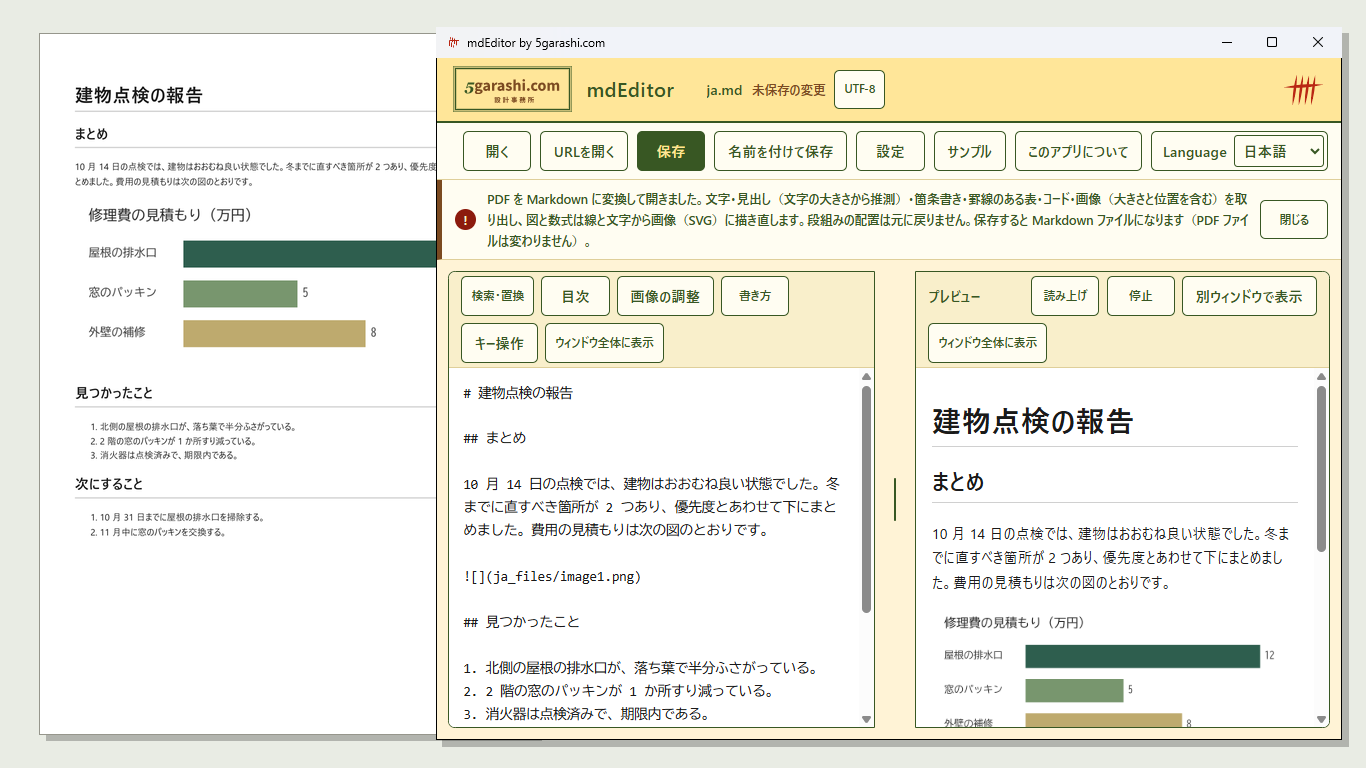
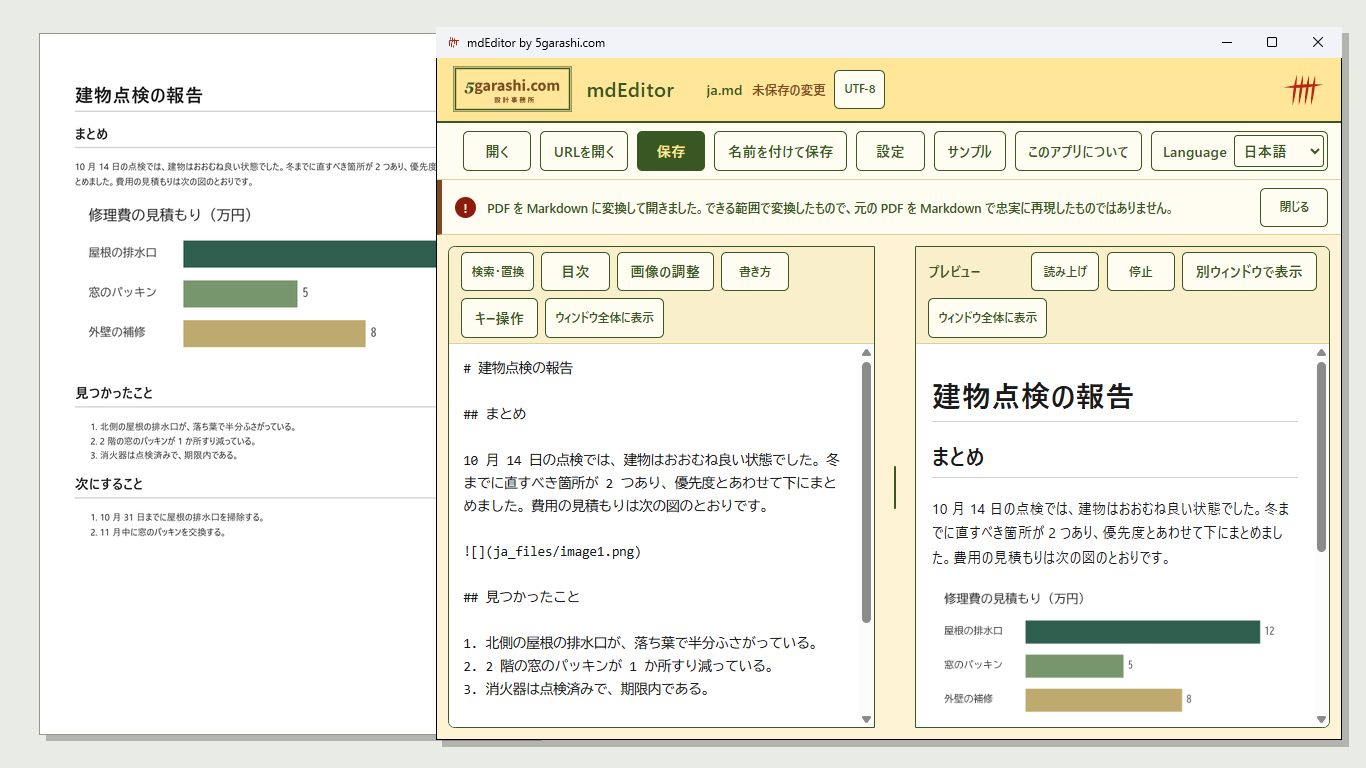
Store listing: 1.0.18 what's new, and screenshot 10-pdf-open retaken (1.0.18)
- What's new (en, ja, zh-CN): tagged PDFs read by their tags, unreadable pages as a
  picture, and saved PDFs tagged for screen readers (English 1,486 of 1,500 characters)
- Screenshot 10-pdf-open retaken with the 1.0.18 build for the shorter notice text, and
  its captions now say the notice calls the conversion best-effort

Tests: none (listing text and images only).

Changed region(s): [[0.3075, 0.25, 0.9839, 0.9688]]

diff --git a/store/STORE-LISTING.md b/store/STORE-LISTING.md
@@ -61,7 +61,8 @@ Made for everyone
 Available in Japanese, English, and Simplified Chinese. Made by 5garashi.com Design Office. Open About in the app for the company, support, and privacy policy links.
 
 **What's new in this version:**
-- Open PDFs as Markdown, on your PC: text, headings, lists, the table of contents, ruled tables, code, and pictures come back, and diagrams and math are redrawn as pictures. Column layout does not come back.
+- Open PDFs as Markdown, on your PC: text, headings, lists, the table of contents, ruled tables, code, and pictures come back, and diagrams and math are redrawn as pictures. Tagged PDFs are read by their tags, and a page whose text cannot be read comes back as a picture. Column layout does not come back.
+- Saved PDFs are tagged, so screen readers can follow their headings, lists, and tables.
 - Word documents without heading styles get their headings from text size.
 - Read aloud reads only the text you select.
 - Simplified Chinese: choose Japanese, English, or Chinese from the Language list.
@@ -103,7 +104,7 @@ Available in Japanese, English, and Simplified Chinese. Made by 5garashi.com Des
 **Support contact:** https://github.com/5garashi/mdEditor/issues
 
 **Screenshots (1366 x 768, the Store minimum; English UI) with captions:**
-1. `docs/images/10-pdf-open.en.png` — Open a PDF and it becomes Markdown on your PC: text, headings, lists, tables, and pictures come back. The notice says what does not (column layout).
+1. `docs/images/10-pdf-open.en.png` — Open a PDF and it becomes Markdown on your PC: text, headings, lists, tables, and pictures come back. The notice says the conversion is best-effort.
 2. `docs/images/9-pdf.en.png` — One click saves a PDF that looks exactly like the preview: diagrams, tables, math, and colored code included, on A4 or Letter.
 3. `docs/images/1-main.en.png` — Type Markdown on the left and the preview on the right updates at once. A 3D model written in STL turns when you drag it.
 4. `docs/images/2-dark.en.png` — Day and night palettes follow Windows, or choose one with the Theme button in Settings. Printing and PDF always use a white page.
@@ -176,7 +177,8 @@ PDF や Word で保存する
 日本語・英語・簡体字中国語に対応します。5garashi.com Design Office が作りました。会社紹介・サポート・プライバシーポリシーは、アプリの「このアプリについて」から開けます。
 
 **このバージョンの新機能:**
-- PDF を Markdown として開けるようになりました（PC の中で変換します）。文字・見出し・箇条書き・目次・罫線のある表・コード・画像が戻り、図と数式は画像に描き直します。段組みの配置は戻りません。
+- PDF を Markdown として開けるようになりました（PC の中で変換します）。文字・見出し・箇条書き・目次・罫線のある表・コード・画像が戻り、図と数式は画像に描き直します。タグ付きの PDF はタグのとおりに読み、文字を読み取れないページはページ全体を画像にします。段組みの配置は戻りません。
+- 保存した PDF はタグ付きになり、画面読み上げで見出し・箇条書き・表をたどれます。
 - 見出しのスタイルがない Word 文書は、文字の大きさから見出しを推測します。
 - 読み上げで、選んだ部分だけを読めるようになりました。
 - 簡体字中国語に対応しました。「Language」の一覧で、日本語・英語・中国語を選べます。
@@ -214,7 +216,7 @@ PDF や Word で保存する
 **検索用語（7つまで）:** Markdown, マークダウン, PDF, PDF変換, Word変換, エディタ, プレビュー
 
 **スクリーンショット（1366 x 768。Store の最小の大きさ。日本語の画面）と説明文:**
-1. `docs/images/10-pdf-open.ja.png` — PDF を開くと、PC の中で Markdown になります。文字・見出し・箇条書き・表・画像が戻り、戻らないもの（段組み）はお知らせ欄に出ます。
+1. `docs/images/10-pdf-open.ja.png` — PDF を開くと、PC の中で Markdown になります。文字・見出し・箇条書き・表・画像が戻ります。できる範囲での変換であることを、お知らせ欄に示します。
 2. `docs/images/9-pdf.ja.png` — ワンクリックで、プレビューと同じ見た目の PDF に保存します。図・表・数式・色分けしたコードもそのまま入り、用紙は A4 か Letter です。
 3. `docs/images/1-main.ja.png` — 左に Markdown を書くと、右のプレビューにすぐ反映されます。STL で書いた 3D モデルも、ドラッグで回せます。
 4. `docs/images/2-dark.ja.png` — 昼と夜の配色は Windows の設定に合わせて切り替わり、「設定」の「表示」ボタンでも選べます。印刷と PDF は常に白地です。
@@ -273,7 +275,8 @@ PDF や Word で保存する
 支持日语、英语和简体中文。由 5garashi.com Design Office 制作。公司介绍、支持和隐私政策的链接，可以在应用的“关于此应用”中打开。
 
 **此版本的新功能:**
-- 可以把 PDF 作为 Markdown 打开（在你的电脑中转换）。文字、标题、列表、目录、有边框的表格、代码和图片会取出，图表和公式重新绘制为图片；分栏排版不会恢复。
+- 可以把 PDF 作为 Markdown 打开（在你的电脑中转换）。文字、标题、列表、目录、有边框的表格、代码和图片会取出，图表和公式重新绘制为图片。带标签的 PDF 按标签读取，无法读取文字的页面会整页变为图片；分栏排版不会恢复。
+- 保存的 PDF 带有标签，屏幕阅读器可以按标题、列表和表格浏览。
 - 没有标题样式的 Word 文档，会根据文字大小推测标题。
 - 朗读可以只朗读选中的文字。
 - 支持简体中文。可以在“Language”列表中选择日语、英语或中文。
@@ -311,7 +314,7 @@ PDF や Word で保存する
 **搜索词（最多 7 个）:** Markdown, Markdown编辑器, PDF转Markdown, Word转Markdown, Markdown转PDF, 预览, Mermaid
 
 **屏幕截图（1366 x 768，Store 的最小尺寸；简体中文界面）及说明:**
-1. `docs/images/10-pdf-open.zh-CN.png` — 打开 PDF，就会在电脑中变成 Markdown。文字、标题、列表、表格和图片会取出，不会恢复的内容（分栏排版）会显示在通知栏中。
+1. `docs/images/10-pdf-open.zh-CN.png` — 打开 PDF，就会在电脑中变成 Markdown。文字、标题、列表、表格和图片会取出，通知栏会说明这是尽力而为的转换。
 2. `docs/images/9-pdf.zh-CN.png` — 一键保存与预览外观相同的 PDF。图表、表格、公式和着色的代码都会原样放入，纸张为 A4 或 Letter。
 3. `docs/images/1-main.zh-CN.png` — 在左边写 Markdown，右边的预览立即更新。用 STL 写的 3D 模型也可以拖动旋转。
 4. `docs/images/2-dark.zh-CN.png` — 白天和夜间的配色跟随 Windows 的设置，也可以在“设置”中用“显示”按钮选择。打印和 PDF 始终使用白色页面。
@@ -327,7 +330,7 @@ PDF や Word で保存する
 - Reserve the name in Partner Center and confirm it is available. Use the same spelling ("5garashi.com Design Office") in the Store, the app, and the website.
 - Replace the privacy or support links if the final URLs differ. The company URL in the app is `https://www.5garashi.com/`.
 - "Worldwide" distribution and "all languages" are different settings. The app supports Japanese, English, and Simplified Chinese (1.0.15) only. Since 1.0.15 the package declares ja-JP, en-US, and zh-CN, so Partner Center expects a listing in each of the three languages; the zh-CN text and its screenshots are above. The Chinese text has not been reviewed by a native speaker.
-- The screenshots are in `docs/images/` (1366 x 768 window, 90% zoom), in Japanese (`.ja`), English (`.en`), and Simplified Chinese (`.zh-CN`). Screenshots 1-main to 9-pdf were retaken with 1.0.15 (2026-10-23) after the header and toolbar changed; screenshot 1-main shows the 3D model of samples/diagram-test (21-1). `10-pdf-open` (retaken with 1.0.17 on 2026-10-25 for the new notice text; listed first to lead with PDF import) puts page 1 of a short report PDF beside the window that opened it as Markdown; the report was written for the screenshot and saved as PDF by mdEditor, with numbered lists. `9-pdf` (listed second) puts the window beside the first page of the PDF it saved. Upload the screenshots in the listed order; ten is the Store maximum. Retake them when the screen changes.
+- The screenshots are in `docs/images/` (1366 x 768 window, 90% zoom), in Japanese (`.ja`), English (`.en`), and Simplified Chinese (`.zh-CN`). Screenshots 1-main to 9-pdf were retaken with 1.0.15 (2026-10-23) after the header and toolbar changed; screenshot 1-main shows the 3D model of samples/diagram-test (21-1). `10-pdf-open` (retaken with 1.0.18 on 2026-10-26 for the new notice text; listed first to lead with PDF import) puts page 1 of a short report PDF beside the window that opened it as Markdown; the report was written for the screenshot and saved as PDF by mdEditor, with numbered lists. `9-pdf` (listed second) puts the window beside the first page of the PDF it saved. Upload the screenshots in the listed order; ten is the Store maximum. Retake them when the screen changes.
 - The map screenshot (`8-map`, listed tenth) shows OpenStreetMap map tiles. Keep the credit "© OpenStreetMap contributors" visible; do not crop it out.
   地図のスクリーンショット（`8-map`、一覧の 10 番目）には OpenStreetMap の地図が写っています。右下の「© OpenStreetMap contributors」を切り取らないでください。
 - Partner Center limits: What's new 1,500 characters, each feature 200 characters (up to 20), each screenshot caption 200 characters (up to 10 screenshots).
